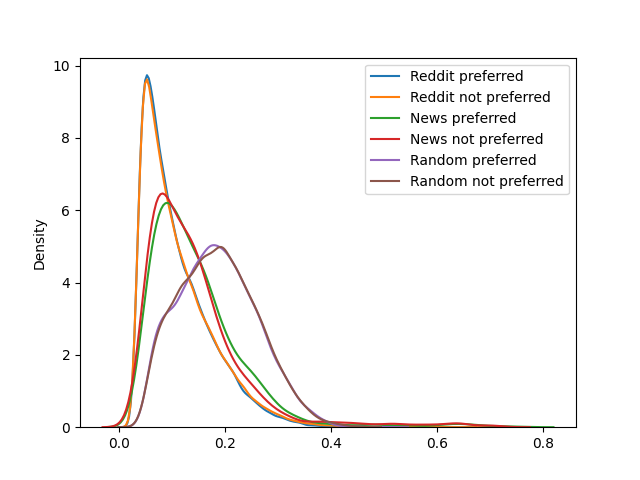
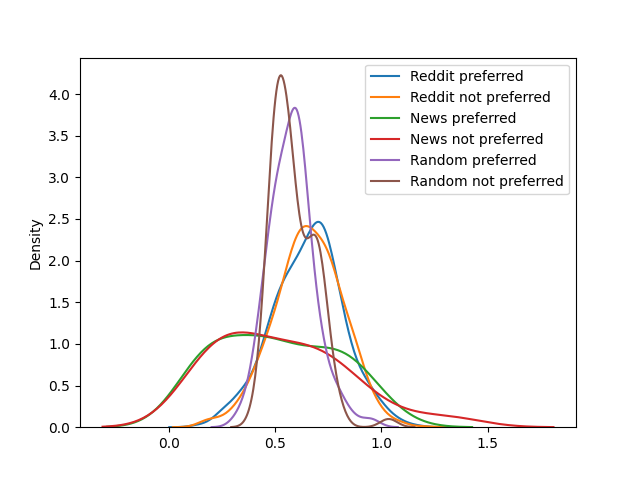
Try to make ensemble work and fail

diff --git a/examples/summarization/scripts/models.py b/examples/summarization/scripts/models.py
@@ -12,9 +12,10 @@ from transformers import (
 )
 from transformers.utils import PaddingStrategy
 import torch
+import random
 
 class UncertaintyEstimationLLM(nn.Module):
-    def __init__(self, num_labels, model_name, tokenizer, model_path=None, dropout=0.1, ensemble=False, n_ensembles=50):
+    def __init__(self, num_labels, model_name, tokenizer, model_path=None, dropout=0.1, ensemble=False, n_ensembles=50, ensemble_dropout=1.0):
         super(UncertaintyEstimationLLM, self).__init__()
         if model_name == "gpt2":
             if model_path is not None:
@@ -32,6 +33,7 @@ class UncertaintyEstimationLLM(nn.Module):
         else:
             self.value_head = nn.Linear(num_labels, 1)
         self.uncertainty_mode = False
+        self.ensemble_dropout = ensemble_dropout
 
     def forward(self, input_ids=None, attention_mask=None):
         outputs = self.model(input_ids=input_ids, attention_mask=attention_mask)
@@ -42,10 +44,11 @@ class UncertaintyEstimationLLM(nn.Module):
                 head_outputs = []
                 for head in self.value_heads:
                     head_outputs.append(head(nn.ReLU()((outputs[0]))))
+                if self.ensemble_dropout:
+                    head_outputs = random.sample(head_outputs, int(len(head_outputs) * self.ensemble_dropout))
                 return torch.mean(torch.stack(head_outputs), dim=0)
         else:
             if not self.ensemble:
-                # Calculate the output n_ensembles times and return the std
                 return torch.std(torch.stack(
                     [self.value_head(nn.functional.dropout(nn.ReLU()((outputs[0])), p=self.dropout, training=True))
                      for _ in range(self.n_ensembles)]), dim=0)
@@ -53,6 +56,8 @@ class UncertaintyEstimationLLM(nn.Module):
                 head_outputs = []
                 for head in self.value_heads:
                     head_outputs.append(head(nn.ReLU()((outputs[0]))))
+                if self.ensemble_dropout:
+                    head_outputs = random.sample(head_outputs, int(len(head_outputs) * self.ensemble_dropout))
                 return torch.std(torch.stack(head_outputs), dim=0)
 
     def set_uncertainty_mode(self, uncertainty_mode):

diff --git a/examples/summarization/scripts/uncertainty_tests.py b/examples/summarization/scripts/uncertainty_tests.py
@@ -71,6 +71,14 @@ class ScriptArguments:
         default=50,
         metadata={"help": "The number of ensemble members to use for ensembling or number of repeats for dropout"}
     )
+    num_labels: Optional[int] = field(
+        default=100,
+        metadata={"help": "The dimension of the linear head for ensembles"}
+    )
+    ensemble_dropout: Optional[float] = field(
+        default=1.0,
+        metadata={"help": "Fraction of heads to use for ensemble"}
+    )
 
 parser = HfArgumentParser(ScriptArguments)
 script_args = parser.parse_args_into_dataclasses()[0]
@@ -97,9 +105,9 @@ elif script_args.model_name == 'llama':
     tokenizer = LlamaTokenizer.from_pretrained("llama_hf_7B")
 
 # CHANGE THIS, DON'T HAVE CHECKPOINT YET
-model = UncertaintyEstimationLLM(num_labels=100, dropout=script_args.dropout, model_name=script_args.model_name,
+model = UncertaintyEstimationLLM(num_labels=script_args.num_labels, dropout=script_args.dropout, model_name=script_args.model_name,
                                     tokenizer=tokenizer, ensemble=script_args.ensemble, n_ensembles=script_args.n_ensembles)
-model.load_state_dict(torch.load('models/gpt2_reward_model_ensemble50.pt'))
+model.load_state_dict(torch.load(f'models/{script_args.model_name}_reward_model_{f"ensemble{script_args.n_ensembles}_{script_args.num_labels}_{script_args.ensemble_dropout}" if script_args.ensemble else f"dropout_{script_args.num_labels}"}.pt'))
 
 ds = load_dataset("openai/summarize_from_feedback", name="comparisons")
 num_proc = 8  # Can adjust to be higher if you have more processors. Should work even if you don't have 8 CPUs, though.
@@ -190,5 +198,5 @@ sns.kdeplot(std_news_bad.flatten(), label='News not preferred')
 sns.kdeplot(std_random_good.flatten(), label='Random preferred')
 sns.kdeplot(std_random_bad.flatten(), label='Random not preferred')
 plt.legend()
-plt.savefig('output.png')
+plt.savefig(f'{script_args.model_name}_{f"ensemble{script_args.n_ensembles}_{script_args.num_labels}_{script_args.ensemble_dropout}" if script_args.ensemble else f"dropout_{script_args.num_labels}"}.png')
 

diff --git a/examples/summarization/scripts/reward_summarization.py b/examples/summarization/scripts/reward_summarization.py
@@ -66,6 +66,15 @@ class ScriptArguments:
     n_ensembles: Optional[int] = field(
         default=50, metadata={"help": "The number of ensemble members to use for ensembling or number of repeats for dropout"}
     )
+    num_labels: Optional[int] = field(
+        default=100,
+        metadata={"help": "The dimension of the linear head for ensembles"}
+    )
+    ensemble_dropout: Optional[float] = field(
+        default=1.0,
+        metadata={"help": "Fraction of heads to use for ensemble"}
+    )
+
 
 
 parser = HfArgumentParser(ScriptArguments)
@@ -97,7 +106,7 @@ if script_args.model_name == 'gpt2':
     tokenizer.pad_token = tokenizer.eos_token
 elif script_args.model_name == 'llama':
     tokenizer = LlamaTokenizer.from_pretrained("llama_hf_7B")
-model = UncertaintyEstimationLLM(num_labels=100, dropout=script_args.dropout, model_name=script_args.model_name,
+model = UncertaintyEstimationLLM(num_labels=script_args.num_labels, dropout=script_args.dropout, model_name=script_args.model_name,
                                     tokenizer=tokenizer, ensemble=script_args.ensemble, n_ensembles=script_args.n_ensembles)
 # model = AutoModelForSequenceClassification.from_pretrained(script_args.model_name, num_labels=1)
 
@@ -154,10 +163,10 @@ trainer = RewardTrainer(
     data_collator=RewardDataCollatorWithPadding(tokenizer=tokenizer),
 )
 print(model)
-# trainer.train(script_args.resume_from_checkpoint)
+trainer.train(script_args.resume_from_checkpoint)
 # trainer.save_model(f"models/gpt2_reward_model")
 
-torch.save(model.state_dict(), f'models/gpt2_reward_model_ensemble50.pt')
+torch.save(model.state_dict(), f'models/{script_args.model_name}_reward_model_{f"ensemble{script_args.n_ensembles}_{script_args.num_labels}_{script_args.ensemble_dropout}" if script_args.ensemble else f"dropout_{script_args.num_labels}"}.pt')
 
 # Push to the hub so you can share it with people :D
 # model.push_to_hub('gpt2_reward_model')

diff --git a/examples/summarization/scripts/utils.py b/examples/summarization/scripts/utils.py
@@ -68,6 +68,12 @@ class RewardTrainer(Trainer):
         rewards_j = model(input_ids=inputs["input_ids_j"], attention_mask=inputs["attention_mask_j"])
         rewards_k = model(input_ids=inputs["input_ids_k"], attention_mask=inputs["attention_mask_k"])
         loss = -nn.functional.logsigmoid(rewards_j - rewards_k).mean()
+        # Some sort of regularization to keep the weights of the ensemble heads close to each other.
+        # if 'module.value_heads.0.weight' in model.state_dict().keys():
+        #     head_weights = [torch.concat([layer.state_dict()['weight'].flatten(), layer.state_dict()['bias']]) for layer
+        #                     in model._modules['module'].value_heads]
+        #     #Calculate sum of pairwise euclidean distance between elements of head_weights
+        #     loss += 1 * sum([torch.norm(head_weights[i] - head_weights[j]) for i in range(len(head_weights)) for j in range(i+1, len(head_weights))])
         if return_outputs:
             return loss, {"rewards_j": rewards_j, "rewards_k": rewards_k}
         return loss
